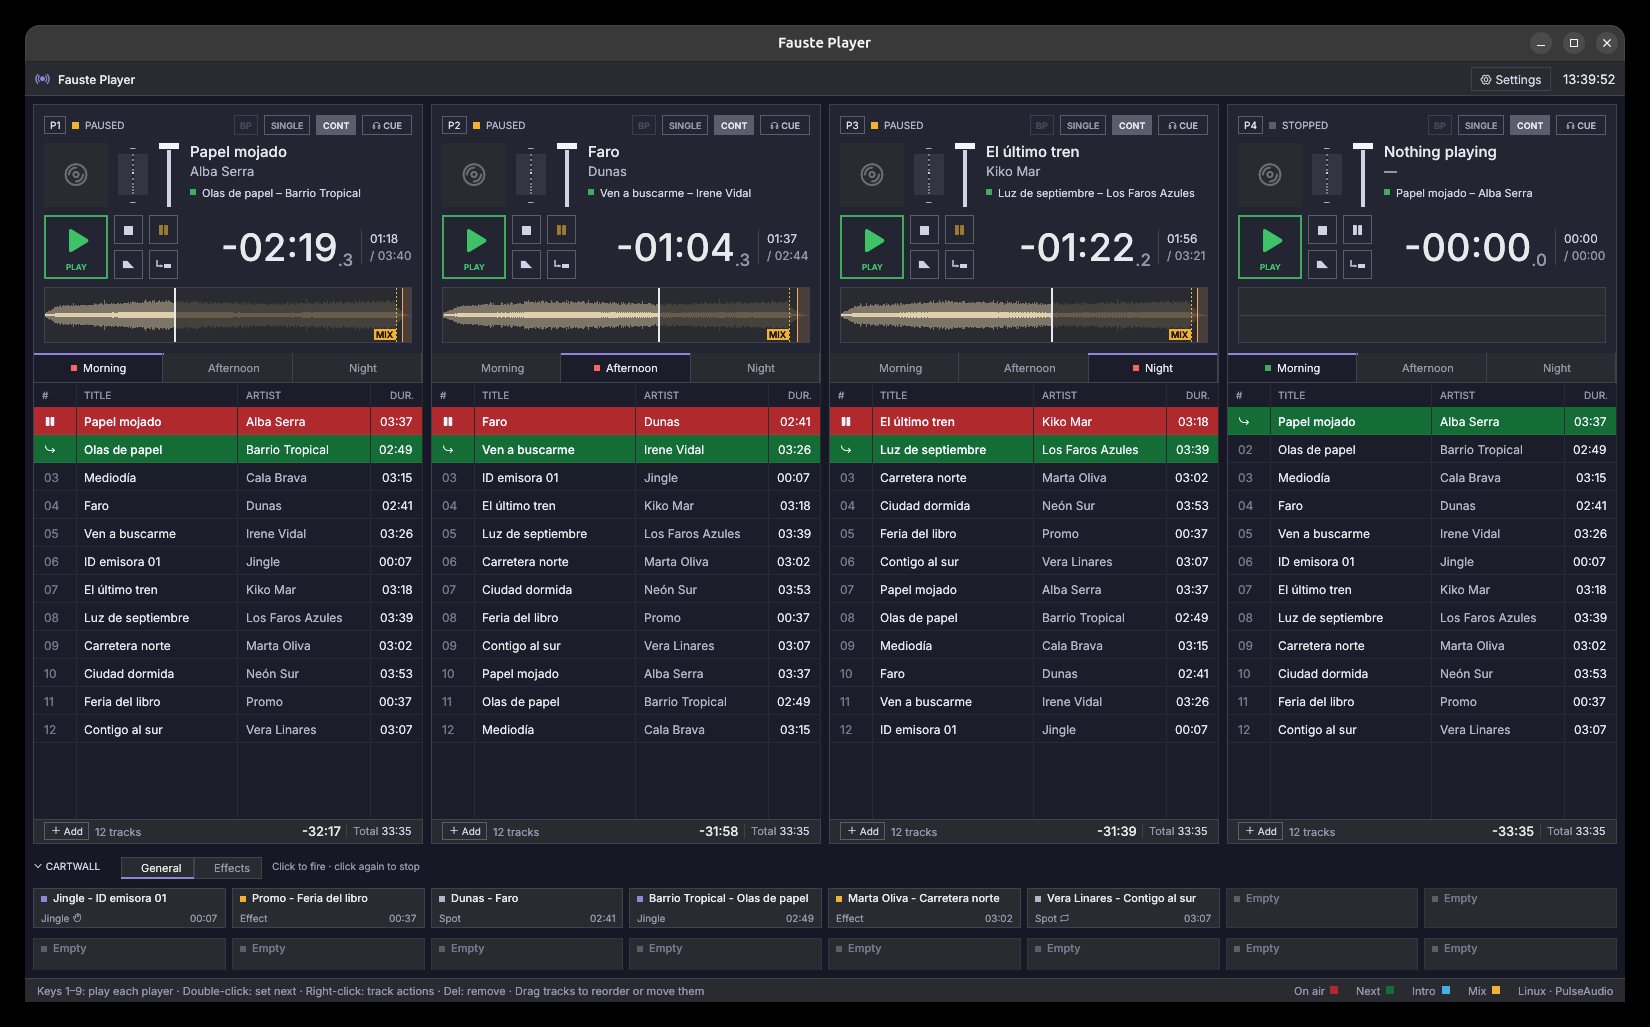
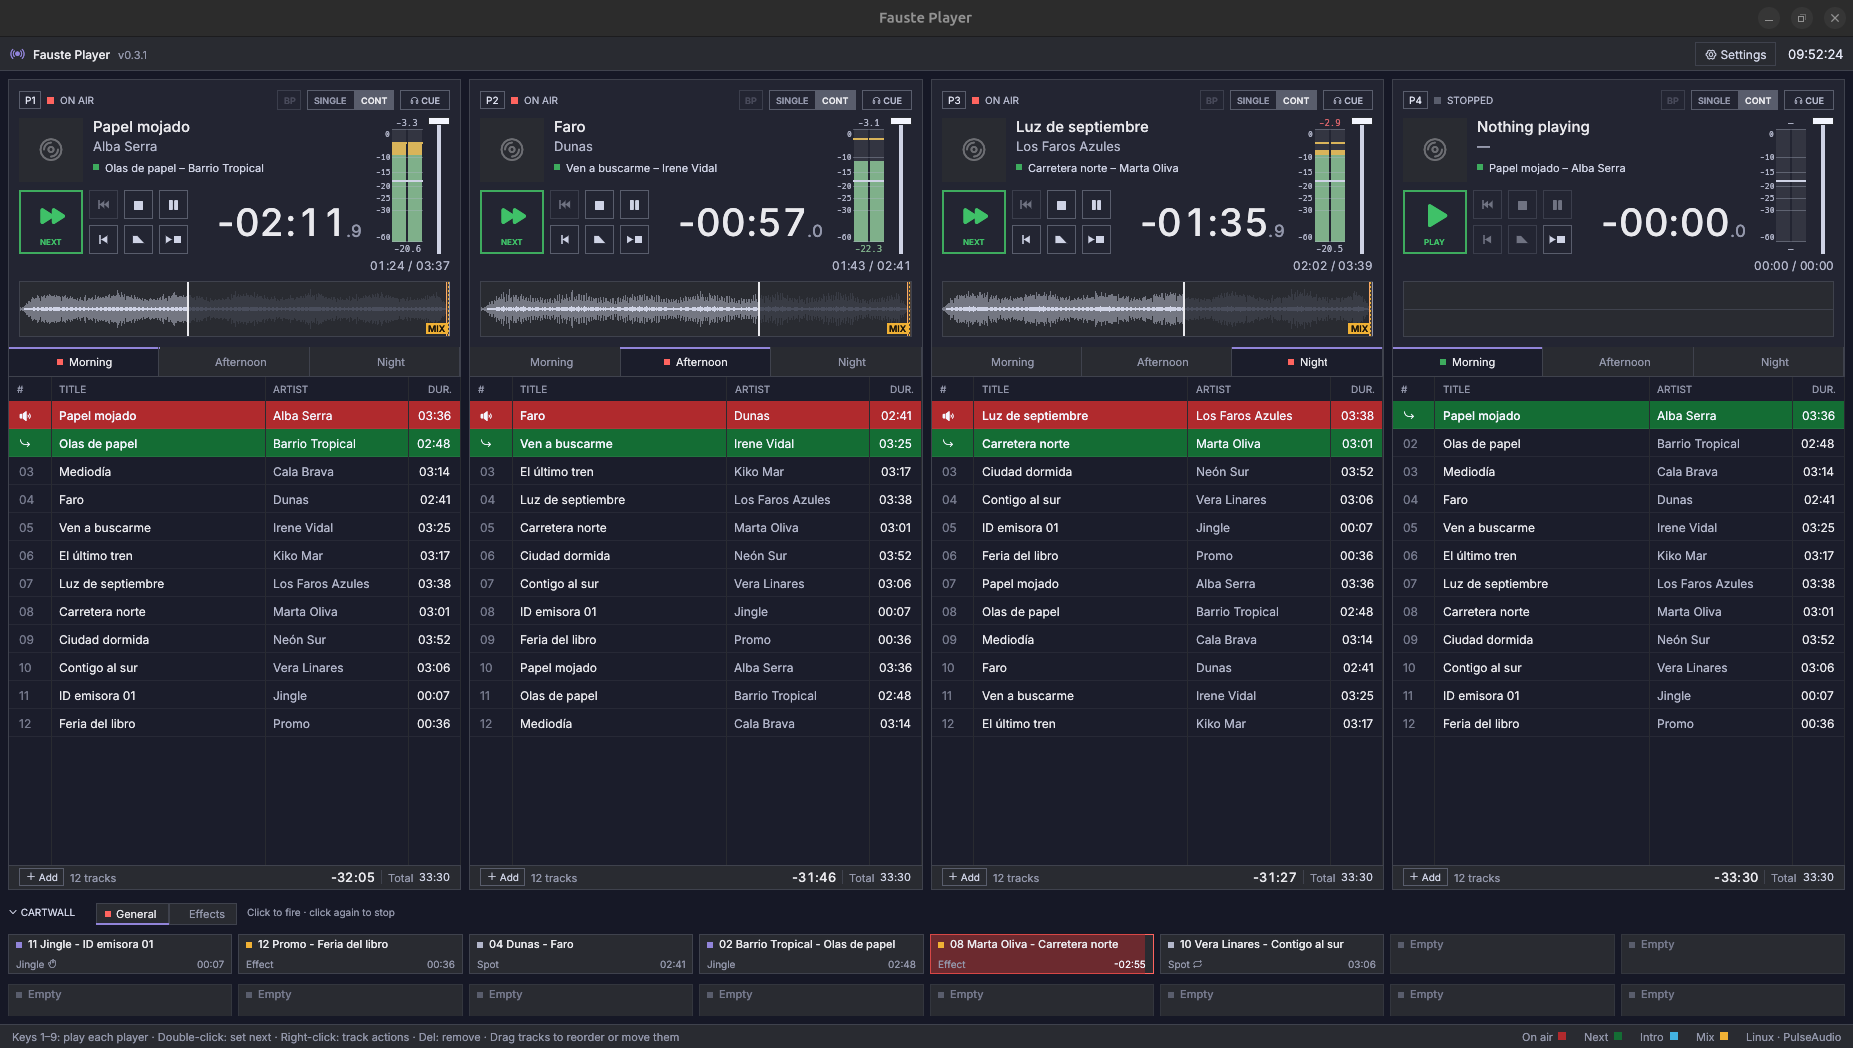
docs: remote editing, Settings > Remote, and a main screen on air
The README screenshot now shows three players on air and a cart playing,
driven through the new remote API: on a Wayland session xdotool cannot
click into the window, which CLAUDE.md now says.

Changed region(s): [[0.0, 0.0, 1.0, 1.0]]

diff --git a/docs/technical/remote-api.md b/docs/technical/remote-api.md
@@ -3,9 +3,8 @@
 The HTTP/JSON API lets other programs read and operate Fauste Player: a
 web page, a phone app, a station's automation. The design is the
 [remote control spec](../superpowers/specs/2026-10-01-remote-control-design.md).
-This page describes what is implemented: reading and operating over HTTP,
-live events over Server-Sent Events, and OSC. Editing routes and the
-Settings page are not implemented yet (spec §10, plan 3).
+This page describes what is implemented: reading, operating and editing
+over HTTP, live events over Server-Sent Events, OSC, and Settings → Remote.
 
 ## Overview
 
@@ -122,6 +121,30 @@ or whose cache entry is gone, answers `404 not_found`.
 | `POST /cartwall/stop-all` | — | |
 | `PUT /cartwall/shown` | `{"page": id}` | Show a cart page |
 
+### Editing
+
+Editing reuses tracks already loaded: an inserted entry or a cart refers
+to the same library track, with its markers and analysis
+(`InsertTracks`, `AssignCartTrack`). Files cannot be added remotely.
+
+| Method and path | Body | Effect |
+|---|---|---|
+| `POST /playlists` | `{"name"}` | Create a playlist |
+| `PATCH /playlists/{id}` | `{"name"}` | Rename it |
+| `DELETE /playlists/{id}` | — | Delete it (refused while it is on air) |
+| `POST /playlists/{id}/entries` | `{"track": id, "index": n}` | Insert a loaded track; an index past the end is the end |
+| `DELETE /entries/{id}` | — | Remove an entry (refused while on air) |
+| `POST /entries/{id}/move` | `{"playlist": id, "index": n}` | Move it, also to another playlist |
+| `POST /entries/{id}/duplicate` | — | Duplicate it |
+| `POST /cartwall/pages` | `{"name"}` | Create a cart page |
+| `PATCH /cartwall/pages/{id}` | `{"name"?, "rows"?, "cols"?}` | Rename or resize it, within `limits.max_cart_rows` and `limits.max_cart_cols` |
+| `DELETE /cartwall/pages/{id}` | — | Delete it |
+| `PUT /cartwall/pages/{id}/carts/{index}` | `{name, kind, looped, exclusive, track: id \| null}` | Set up a cart; `kind` is `jingle`, `effect` or `spot`. Keeping its track does not stop it; a new track or `null` does (C8) |
+| `PUT /tracks/{id}/markers/{kind}` | `{"secs": f64 \| null}` | Set a marker by hand, or with `null` let analysis fill it again; `kind` is `cue-in`, `intro-end`, `outro-start`, `segue-start` or `cue-out` |
+| `POST /tracks/{id}/markers/reset` | — | Drop every manual marker and analyse again |
+
+Names are trimmed and must not be empty.
+
 ## Events (SSE)
 
 `GET /api/v1/events` is a Server-Sent Events stream
@@ -220,7 +243,7 @@ Errors carry `{"error": code, "message": text}`.
 | 403 | `forbidden_origin` | An `Origin` not in `cors_origins`, or a `Host` that is not loopback on a loopback bind |
 | 404 | `not_found` | Unknown id, path or cover |
 | 404 | `not_analyzed` | Cover or peaks of a track not analysed yet |
-| 405 | (empty) | A route that exists with another method |
+| 405 | `method_not_allowed` | A route that exists with another method |
 | 408 | (empty) | The request took longer than `request_timeout_ms` |
 | 409 | `unavailable` | The action is not available now, or the model refuses it |
 | 413 | `payload_too_large` | Body over `max_body_bytes` |
@@ -306,6 +329,12 @@ configuration (see [Persistence and configuration](persistence.md)):
   events on a `broadcast` channel of 256, and every `position_interval_ms`
   it adds a `position` while something plays. It does no work while nobody
   listens. SSE streams and the OSC socket read that channel.
+- A server whose address could not be bound (in use, no permission) is
+  tried again every 2 s, so a port freed later is taken without a restart.
+- Settings → Remote (`ui/settings/remote.rs`) edits `config.remote` through
+  `UpdateConfig`, and reads each server's state from
+  `RemoteHandle::status_cell`, an `ArcSwap` the remote thread publishes.
+  It generates tokens with `getrandom` (32 bytes, base64url).
 - Stopping a server ends its event streams, gives open requests two
   seconds, then aborts it. Dropping the handle stops both servers and joins
   the thread.

diff --git a/docs/user/remote-control.md b/docs/user/remote-control.md
@@ -7,9 +7,14 @@ station's automation or a control surface can use them. It is
 
 ## Turning it on
 
-Settings has no page for it yet. Close Fauste Player, open `config.json`
-(see [Data and backups](data-and-backups.md) for where it is), and inside
-the `"config"` object set `remote.http.enabled` to `true`:
+Open **Settings → Remote** and tick **Allow remote control over HTTP**
+(or **Allow OSC control**). The line under each switch says whether the
+server is listening, and where, or why it did not start. Changes apply at
+once; there is no need to restart.
+
+You can also edit `config.json` while Fauste Player is closed (see
+[Data and backups](data-and-backups.md) for where it is). Inside the
+`"config"` object, set `remote.http.enabled` to `true`:
 
     {
       "schema_version": 1,
@@ -21,13 +26,16 @@ the `"config"` object set `remote.http.enabled` to `true`:
       }
     }
 
-On the next start it listens on `http://127.0.0.1:7380`. Starting it never
-plays anything; only requests act.
+It listens on `http://127.0.0.1:7380`. Starting it never plays anything;
+only requests act.
 
 ## Listening on the studio network
 
 To reach it from other computers, set `bind` to `0.0.0.0` (or one of this
 computer's addresses) and set a **token** of at least 16 characters.
+In Settings → Remote, **Generate** makes a long random token. It is hidden
+until you press **Show**, and **Copy** puts it on the clipboard for the
+client.
 Without a token the server refuses to start, and the log says why.
 
     "remote": {
@@ -61,7 +69,15 @@ A client can:
 - choose the next entry, pre-listen, and seek;
 - set volumes, modes, stop-after-current, and the repeat and stop-after
   marks of an entry;
-- fire, stop and pre-listen carts, and change the cart page shown.
+- fire, stop and pre-listen carts, and change the cart page shown;
+- edit: create, rename and delete playlists; add a track that is already
+  loaded, and remove, move or duplicate entries; create, rename, resize and
+  delete cart pages, and set up a cart with a loaded track; set or reset
+  markers.
+
+Removing what is on air is refused, as it is on screen. Files that are not
+loaded yet cannot be added remotely: they live on this computer, so add
+them here first.
 
 A button that is greyed out on screen is refused remotely too. The full
 reference is in [the technical documentation](../technical/remote-api.md).
@@ -107,6 +123,10 @@ to keep receiving:
 
     oscdump 9000 &
     oscsend localhost 7381 /fauste/subscribe i 9000
+
+A subscriber can name any port of its own address, and up to
+`max_subscribers` are kept. Anyone allowed to send can therefore also
+subscribe. This is one more reason to keep OSC on a trusted network.
 
 `oscsend` and `oscdump` come with liblo (`liblo-tools` on Debian and
 Ubuntu). The full list of addresses is in

diff --git a/CLAUDE.md b/CLAUDE.md
@@ -182,10 +182,15 @@ once to sRGB constants in `crates/fp-app/src/ui/theme.rs`.
   3. capture it with `import -window <id> shot.png`.
 - Driving the running app (for a screenshot with a player on air): enable
   `remote.http` inside `"config"` in the scratch `config.json` and use `curl`
-  (see `docs/user/remote-control.md`), or click with `xdotool`
-  (`xdotool search --name "Fauste Player"`, then
-  `xdotool mousemove --window <id> <x> <y> click 1`). `xdotool` is needed
-  for clicks; install it with the system's package manager.
+  (see `docs/user/remote-control.md`). `xdotool` (install it with the
+  system's package manager) can click on a real X11 session
+  (`xdotool mousemove --window <id> <x> <y> click 1`); on a Wayland session
+  it moves the pointer but its clicks do not reach XWayland windows, so use
+  the remote API there. `xdotool mousemove 0 0` keeps the pointer from
+  highlighting a row in the shot.
+- Tagged test audio without encoders: WAV files with a RIFF `LIST/INFO`
+  chunk (`INAM` title, `IART` artist) written from Python are read by the
+  analysis like any tagged file.
 - Remote API tests drive the axum router with `tower::ServiceExt::oneshot`
   (no sockets) and the recording `FakeControl` in
   `crates/fp-remote/tests/support`; server tests bind `127.0.0.1` on free

diff --git a/docs/superpowers/specs/2026-10-01-remote-control-design.md b/docs/superpowers/specs/2026-10-01-remote-control-design.md
@@ -170,6 +170,11 @@ the UI's clamping rules are not repeated here.
 | `PUT /tracks/{id}/markers/{kind}` | `{"secs": f64 \| null}` | `SetMarker` |
 | `POST /tracks/{id}/markers/reset` | — | `ResetMarkers` |
 
+Editing reuses tracks already in the library: inserting an entry and
+setting a cart refer to the same track, with its markers and analysis
+(`Command::InsertTracks`, `Command::AssignCartTrack`). A path inserted
+again would make a new track.
+
 Marker kinds in paths are `cue-in`, `intro-end`, `outro-start`,
 `segue-start`, `cue-out`. Rows and columns are validated against
 `limits.max_cart_rows` and `limits.max_cart_cols`; an index past the playlist's
@@ -392,7 +397,8 @@ fp-app ──(Bridge: impl RemoteControl)──► fp-remote
   join with a timeout. If the thread dies the error is logged and shown, and
   the application carries on, as with MIDI.
 - **Bind failures** (port in use, permission) are logged, shown in Settings,
-  and the application runs without that server.
+  and the application runs without that server. They are tried again every
+  2 s, so a port freed later is taken without a restart.
 - **Token generation.** Settings offers "Generate": 32 random bytes from
   `getrandom`, base64url without padding.
 

diff --git a/docs/user/settings.md b/docs/user/settings.md
@@ -102,3 +102,23 @@ See [Keyboard](keyboard.md).
 
 Turn MIDI control surfaces on, see the input ports, and learn a control
 for each player action. See [MIDI control surfaces](midi.md).
+
+## Remote
+
+Remote control over the network, for web pages, phone apps, automation and
+control surfaces. See [Remote control](remote-control.md).
+
+- **Allow remote control over HTTP**, its **address** and **port**, and a
+  line that says whether it is listening.
+- **Token**, required beyond this computer. **Generate** makes a random one,
+  **Show** reveals it, and **Copy** puts it on the clipboard. A warning
+  appears when the address reaches beyond this computer and there is no
+  token.
+- **Web pages allowed to use the API**: one origin per line.
+- **Allow OSC control**, its **address** and **port**, and the **senders
+  allowed** (addresses or subnets, one per line).
+- **Publish times every**: how often elapsed and remaining times are sent
+  while something plays.
+
+Text fields apply when you leave them. An invalid value is corrected, and
+the field shows what was kept.

diff --git a/README.md b/README.md
@@ -58,10 +58,11 @@ audio engine that the interface can never block.
   fader can be learned onto a MIDI controller, with soft takeover for
   faders, LED feedback and hot-plug.
 - **Remote control:** an HTTP/JSON API with live events (Server-Sent
-  Events) and OSC, off by default. A web page, a phone app, automation or a
-  control surface can follow the players, playlists and cartwall and
-  operate them. A token, origin checks and source allow-lists protect it
-  when it listens on the network.
+  Events) and OSC, off by default and set up in Settings → Remote. A web
+  page, a phone app, automation or a control surface can follow the
+  players, playlists and cartwall, operate them, and edit playlists, cart
+  pages and markers. A token, origin checks and source allow-lists protect
+  it when it listens on the network.
 - **M3U / M3U8 / PLS import and M3U8 export.**
 - **Bit-perfect output:** a device can be played with exclusive access,
   following each file's sample rate while idle; at 100 % volume with no fade

diff --git a/docs/technical/ui.md b/docs/technical/ui.md
@@ -15,6 +15,7 @@
 | `ui/table.rs` | The track table (virtualised rows, drag and drop, context menu, column widths) |
 | `ui/settings.rs` | The Settings modal (outputs, players and language, analysis, playlists) |
 | `ui/settings/carts.rs`, `ui/settings/keys.rs` | Settings → Cartwall (pages, grid, cart editor, import and export) and → Keyboard shortcuts (capture, conflicts) |
+| `ui/settings/remote.rs` | Settings → Remote: the HTTP and OSC switches, addresses, token, origins and senders, and each server's state read from the remote thread's status cell |
 | `ui/cartwall.rs`, `ui/cart_view.rs` | The cartwall strip, and its pure view model (status, countdown, progress) |
 | `ui/playlist_files.rs` | Playlist import and export on helper threads (`FileOutcome`) |
 | `ui/shell.rs` | Panic isolation around each frame |

diff --git a/docs/user/README.md b/docs/user/README.md
@@ -15,7 +15,7 @@ by themselves.
 | [Playlists](playlists.md) | Tabs, the track table, drag and drop, the context menu, M3U/PLS files |
 | [Cartwall](cartwall.md) | Instant carts: firing, pages, loops, exclusive carts, setup |
 | [Markers and mixing](markers-and-mixing.md) | Cue in/out, the MIX point, intro and outro, automatic analysis |
-| [Settings](settings.md) | Audio outputs, players, analysis, playlists |
+| [Settings](settings.md) | Audio outputs, players, analysis, playlists, MIDI, remote control |
 | [Bit-perfect output](bit-perfect.md) | Exclusive devices that follow each file's rate, the BP badge, checking a chain |
 | [Keyboard](keyboard.md) | Shortcuts |
 | [MIDI control surfaces](midi.md) | Buttons, faders and lights on MIDI controllers |

diff --git a/docs/technical/persistence.md b/docs/technical/persistence.md
@@ -207,7 +207,7 @@ carts).
 | `devices` | `[]` | `{ "input": port name, "output": port name or null }`: where an input's LED feedback goes |
 | `bindings` | `[]` | `{ "device": port name, "trigger": { "Note": { "channel", "note" } } \| { "ControlChange": { "channel", "controller" } } \| { "PitchBend": { "channel" } }, "action": { "Button": shortcut action } \| { "Volume": n } }`; channels 0–15. Bindings to other actions, out of MIDI's range, or a volume on a note are dropped with a warning |
 
-### `remote` (config file only for now)
+### `remote` (Settings → Remote)
 
 | Field | Default | Range |
 |---|---|---|
